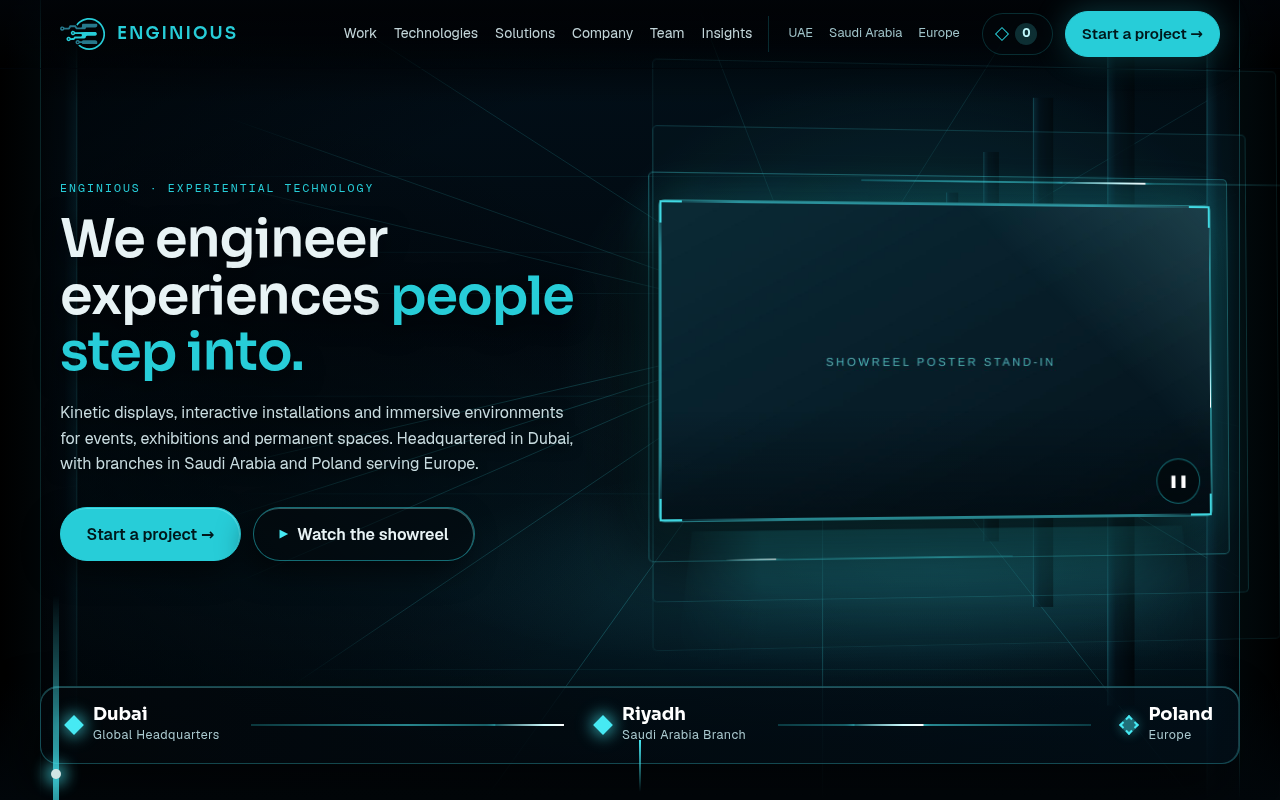
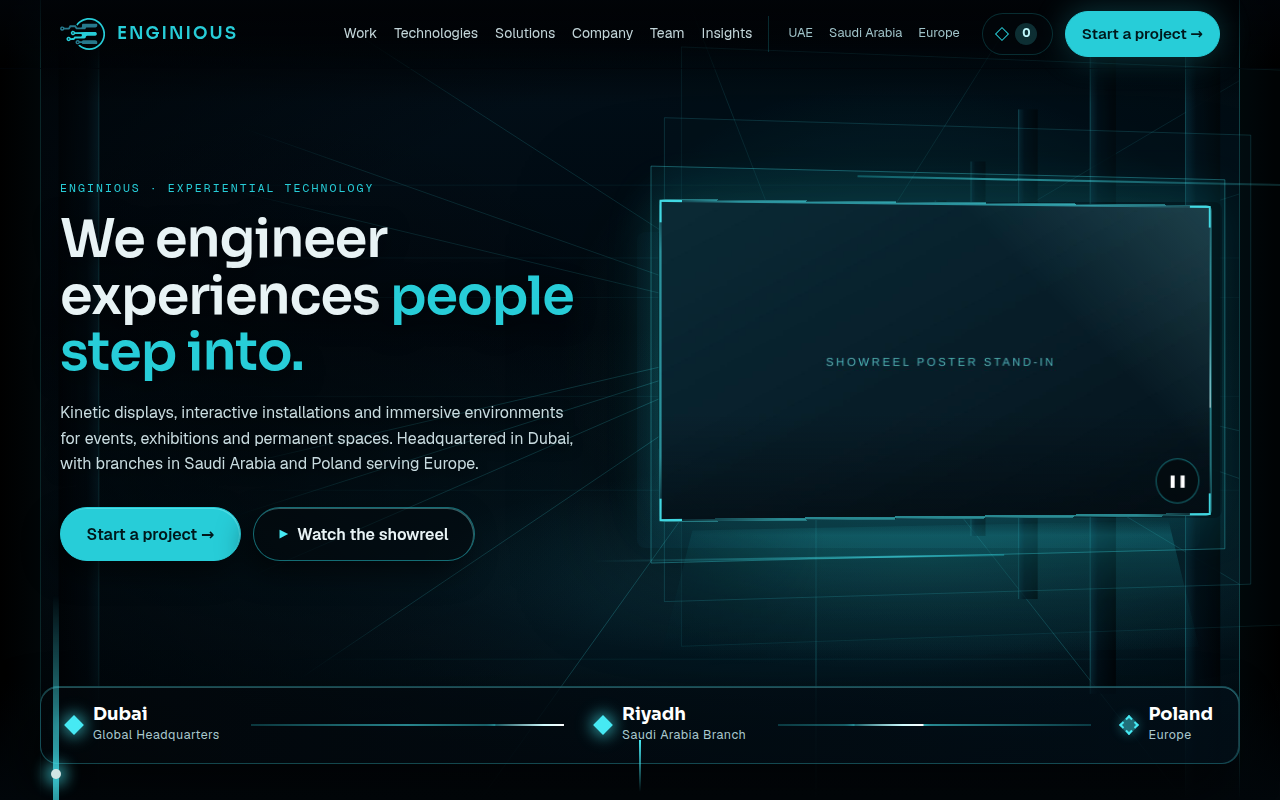
Design exploration: The Enginious Digital Atrium (homepage hero only)
A single hero scene for review. Static architectural environment, the showreel as a lit screen in real CSS 3D set in receding planes baked into one SVG, sharp foreground copy and regional strip. Pointer parallax on four small layers (mouse only), links and buttons hold still, native scroll with a depth transition, static mobile composition, reduced motion respected. No WebGL, no new dependency, no filters.

Before/after screenshots, performance data and tests are in docs/design/atrium. Content, CMS integration, navigation, regional links, showreel controls and project brief are unchanged. Other pages are untouched.

Claude-Session: https://claude.ai/code/session_019F5DCX6ACi872TRxTzfHvi

diff --git a/src/components/home/ShowreelHero.tsx b/src/components/home/ShowreelHero.tsx
@@ -138,6 +138,8 @@ export function ShowreelHero({ cfg }: { cfg: ShowreelConfig }) {
     const kick = () => { if (!raf && onScreen && !document.hidden) { window.clearTimeout(idle); promote(true); raf = requestAnimationFrame(apply); } };
     const move = (e: PointerEvent) => {
       if (e.pointerType !== "mouse" || !wide.matches) return;
+      // links and buttons must hold still under the cursor: freeze the layers where they are the moment the pointer is over one
+      if ((e.target as Element | null)?.closest?.("a, button")) { tx = x; ty = y; return; }
       const r = root.getBoundingClientRect();
       tx = ((e.clientX - r.left) / r.width) * 2 - 1; ty = ((e.clientY - r.top) / r.height) * 2 - 1;
       kick();

diff --git a/docs/design/atrium/README.md b/docs/design/atrium/README.md
@@ -1,0 +1,84 @@
+# The Enginious Digital Atrium: hero exploration
+
+**Status: single-scene exploration for approval. Not merged. Nothing else on the site has changed.**
+Branch `claude/digital-atrium-exploration`, cut from `main` at `82e4f2b`. Content, CMS integration, navigation, regional links, showreel controls and the project brief are unchanged; only the homepage hero's presentation is new.
+
+## The idea
+
+You look through a dark architectural opening into a spacious hall. The edges are almost black. A single light source sits at the far end of the hall (upper right of centre): faces that look toward it carry a thin teal rim and shadows fall away from it, down and to the left. The Enginious showreel is the lit screen at the end of the hall, which makes it the main visual evidence. The headline sits in a calm dark area on the left, in front of everything.
+
+| Depth | What it is | How it is built |
+|---|---|---|
+| **Distant environment** | near-black space, a soft teal glow at the vanishing point, floor and ceiling rails converging on it, a few dark wall fins with a rim on the lit edge, the screen's cast shadow and glow | one static SVG (`AtriumEnv`) and a static overlay (`AtriumFrame`). Painted once, **never transformed** |
+| **Middle** | the showreel screen in real CSS 3D (yawed 6 degrees toward the room's centre), set in three receding planes, two light rails and a floor light | the screen is one real 3D element (video, poster, neon edge). Planes, rails and floor light are **one SVG** (`AtriumPlanes`) with the perspective baked in using the same maths the browser uses, so it lines up with the real screen |
+| **Foreground** | headline, description, **Start a project**, **Watch the showreel**, the Dubai / Riyadh / Poland strip | sharp text and controls, separated by a restrained shadow (down-left) and a rim of light on top and right edges |
+
+Everything decorative is `aria-hidden`; the neon edge that flows around the screen and the runners on the regional strip are the existing neon system.
+
+## Behaviour
+
+- **Complete before anyone moves the pointer.** Nothing is animated until the pointer moves; the CSS pose is the resting composition.
+- **Desktop pointer (mouse only, wider than 900 px):** four layers shift opposite to the pointer, nearer ones more: planes 6 px, screen 9 px, copy 11 px at the extreme, eased, and they return gently to rest when the pointer leaves. **Links and buttons hold still:** the moment the pointer is over one, the layers freeze, so targets never drift under the cursor.
+- **Scroll (native):** as the hero leaves, nearer layers leave faster (copy, then screen, then planes) while the environment stays put, and the hero fades into the next section. No hijacking, no delay.
+- **Mobile (390 / 430 / 768):** a static, intentional composition: headline, then the framed showreel with a slight tilt and two receding planes, then the description, both actions and the regional strip, all inside the first screen. No pointer behaviour, no hover-only controls, no horizontal overflow.
+- **Reduced motion:** a fully composed static scene. No pointer or scroll movement, no video, play cue on the screen.
+- **Showreel:** unchanged logic. YouTube loads after first paint, only when motion is allowed; if it is unavailable the poster or a neutral dark screen with a play cue remains. Clicking the lit screen (mouse) or the **Watch the showreel** button (keyboard and everyone) opens the same lightbox. The pause control sits on the screen. **No project footage is invented**: when there is no poster the screen shows a neutral dark panel labelled "Enginious showreel".
+- **No device-motion permissions, no WebGL, no new dependency, no filters.**
+
+## Performance: what was found and what was done
+
+First attempt (real 3D planes, a moving full-screen environment, large shadows) dropped the desktop pointer sweep to **39 fps** and scrolling to **43 fps** in the test browser (baseline 60). Controlled experiments (`scripts/perf/hero-measure.cjs --css`) showed the cost was the number and size of layers that had to be recomposited each frame, not any single effect: removing the moving environment alone recovered most of it. The shipped version therefore:
+
+1. makes the environment and the dark opening **static** (they never move, so they never cost a layer);
+2. bakes the planes, rails and floor light into **one** SVG;
+3. moves only **four** small layers, written by **one** rAF scheduler (no React state), which sleeps when everything is at rest, when the hero is off-screen or the tab is hidden;
+4. promotes layers (`will-change`) **only while they are moving** and releases them afterwards (the old hero held `will-change` on five layers permanently);
+5. freezes the layers over links and buttons (also fixed an intermittent click flake in the test suite).
+
+Same harness, same stubs, same viewports, same CPU throttling, median of 3 runs, headless Chromium with a **software renderer** (read as relative, not as device numbers). Raw data: `perf-before.json`, `perf-after.json`.
+
+| Scenario | fps before -> after | frames over 33 ms | main-thread busy |
+|---|---|---|---|
+| Desktop 1440, idle 5 s | 60 -> 60 | 0 -> 0 | 2.4% -> 2.7% |
+| Desktop, pointer sweep 4 s | 60.1 -> 59.9 | 0 -> 1 | 4.7% -> 6.6% |
+| Desktop, scroll through the hero | 60.3 -> 59.4 | 0 -> 1 | 6.3% -> 9.8% |
+| Desktop, **CPU x4**, idle | 60 -> 60.2 | 0 -> 0 | 9.5% -> 9.6% |
+| Desktop, **CPU x4**, pointer sweep | 60.2 -> 59.8 | 0 -> 1 | 18.1% -> 21.7% |
+| Desktop, **CPU x4**, scroll | 59 -> 57.7 | 1 -> 3 | 27.9% -> 33.6% |
+| Phone 390 (DPR 2), idle | 60 -> 60 | 0 -> 0 | 2.3% -> 2.2% |
+| Phone, scroll | 60.1 -> 59.8 | 0 -> 0 | 7% -> 6.7% |
+| Phone, **CPU x4**, idle / scroll | 60.2 / 59.9 -> 60.2 / 60.2 | 0 -> 0 | 8.4% / 29.2% -> 8.2% / 25.3% |
+
+**Honest read:** parity on idle, phone and the 4x-throttled phone; a small cost on desktop interaction (a few percent more main-thread time, one or two extra frames over 33 ms in a run). Hero DOM grew from 61 to about 180 nodes, almost all SVG line segments; that costs nothing at runtime. Real GPU paint cost cannot be measured in this environment; it should be checked on your own machine (the preview) and on a mid-range phone.
+
+## Verification
+
+**Local (production build, headless Chromium, YouTube stubbed):**
+- `scripts/perf/atrium-test.cjs`: **54 / 54**: viewport rules at 1440, 1280, 390, 430, 768 (regional strip inside the first screen, actions above it, copy clear of the screen, no overflow, links at least 44 px tall on desktop and 40 px on phones), layer behaviour (idle writes nothing, off-screen writes nothing, environment never transformed, `will-change` only while moving, return to rest, depth ordering, size of movement under 14 px), reduced motion, keyboard order (pause, Start a project, Watch the showreel, Dubai, Riyadh, Poland), nothing decorative focusable, region links go to /uae, /saudi-arabia, /europe, navigation and project brief, the lit screen opens the lightbox, buttons hold still.
+- `scripts/perf/home-test.cjs` (existing hero behaviour: poster first, YouTube after paint, pause/play, lightbox, focus return, header, neon live/paused, Save-Data, reduced motion, phone): **24 / 24**, six consecutive clean runs.
+- `scripts/perf/site-test.cjs` (every route, indexing rules, skip link, mobile menu): all pass.
+- Type check, lint and unit tests pass; production build succeeds.
+- CMS integration (`scripts/test/e2e.sh public-e2e`, the public site reading published content from the local database stand-in, including draft isolation and starter-content fallback): **49 / 49**.
+
+**Not verified here:** the deployed preview in a real browser, real devices, real GPU paint cost, screen readers, the real showreel thumbnail (YouTube is unreachable from the build sandbox: all screenshots use a neutral stand-in poster that says so; the preview shows the real thumbnail and video).
+
+## Screenshots
+
+`before/` and `after/` (1440, 1280, 390, reduced motion, scrolled); `compare-*.png` put them side by side.
+
+## Files
+
+New: `src/components/home/AtriumScene.tsx` (static environment, frame and the baked planes). Changed: `src/components/home/ShowreelHero.tsx` (structure and the motion scheduler), `src/app/(site)/home.css` (hero section only). Tooling: `scripts/perf/hero-measure.cjs`, `scripts/perf/atrium-test.cjs`, small selector updates in `scripts/perf/home-test.cjs`.
+Removed from the hero: the full-bleed video background, the old stage illustration (beams, pillars, ring), the full-viewport neon frame and the pointer spotlight.
+
+## To revert
+
+The exploration lives on its own branch. Closing the branch or not merging it leaves `main` exactly as it is.
+
+## Decisions for your review
+
+1. Is the depth strong enough, or should the environment carry more architecture (more ceiling structure, a nearer foreground element)?
+2. Is the screen too large or too small relative to the headline? (It is 44% of the width at desktop.)
+3. Keep the click-the-screen shortcut? (The button remains the keyboard path either way.)
+4. Roll the language out to other pages? That is deliberately not done: the same static-environment and one-baked-layer rules would carry over, so the cost per page stays small.
+5. Known and left alone: a pre-existing, dev-only hydration warning about floating-point digits in a technology icon (`TechForm`), unrelated to this work.
